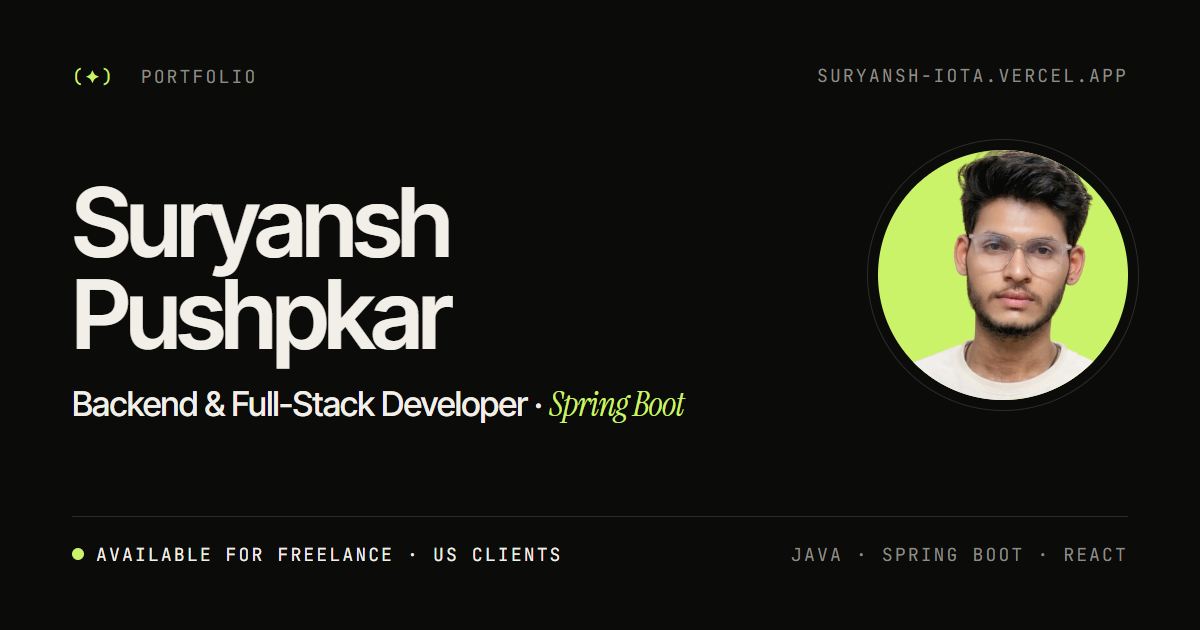
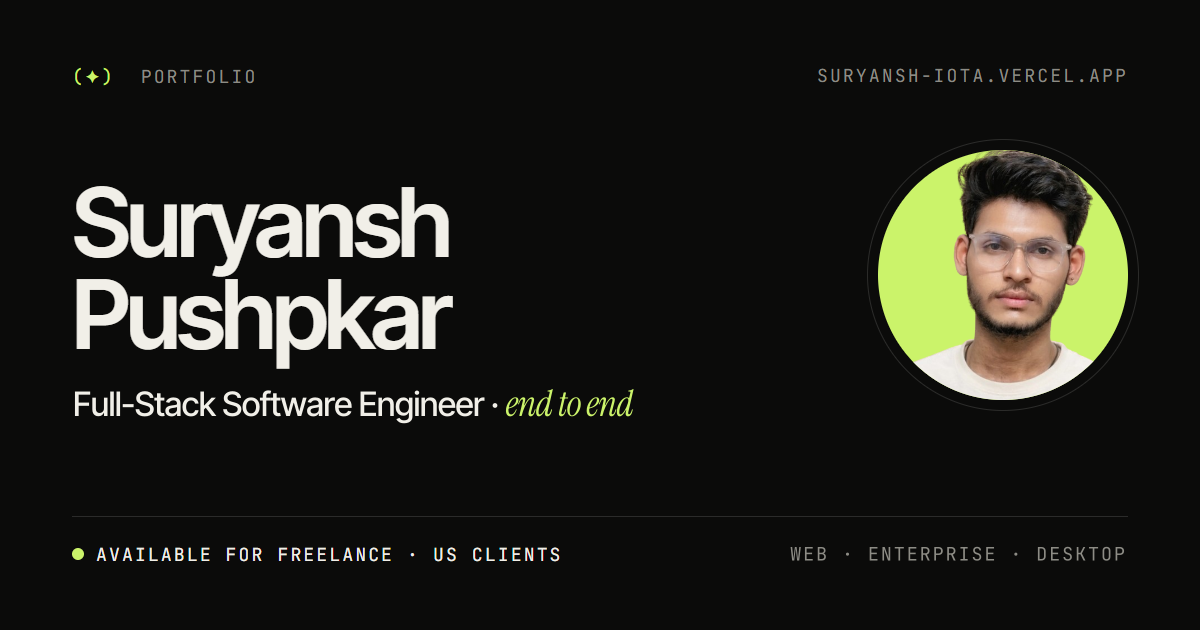
Reposition as a full-stack software engineer in plain language
Retitle to "Full-Stack Software Engineer" (headline: "Software engineer")
and rewrite the hero, About, Services, Process and project descriptions
for non-technical visitors, without framework names. Tool names stay in
the Skills strip, project tags and structured data. Update the page
title, meta descriptions and link-preview image to match.

Changed region(s): [[0.0617, 0.6032, 0.5858, 0.6635], [0.6475, 0.8444, 0.9558, 0.9048]]

diff --git a/Profolio/index.html b/Profolio/index.html
@@ -4,10 +4,10 @@
     <meta charset="UTF-8" />
     <meta name="viewport" content="width=device-width, initial-scale=1.0" />
 
-    <title>Suryansh Pushpkar | Backend &amp; Full-Stack Developer</title>
+    <title>Suryansh Pushpkar | Full-Stack Software Engineer</title>
     <meta
       name="description"
-      content="Suryansh Pushpkar, backend &amp; full-stack developer building scalable Java, Spring Boot, microservices and React systems for US clients and freelance work."
+      content="Suryansh Pushpkar, full-stack software engineer. I build websites, web apps, business and desktop software, from idea to launch, for US clients and freelance projects."
     />
     <meta name="author" content="Suryansh Pushpkar" />
     <meta name="robots" content="index, follow, max-image-preview:large" />
@@ -22,22 +22,22 @@
     <meta property="og:site_name" content="Suryansh Pushpkar" />
     <meta property="og:locale" content="en_US" />
     <meta property="og:url" content="https://suryansh-iota.vercel.app/" />
-    <meta property="og:title" content="Suryansh Pushpkar | Backend &amp; Full-Stack Developer" />
+    <meta property="og:title" content="Suryansh Pushpkar | Full-Stack Software Engineer" />
     <meta
       property="og:description"
-      content="Backend-heavy products, full-stack applications and scalable systems built with Java, Spring Boot and React."
+      content="Websites, web apps, business and desktop software, built end to end: fast, secure and ready to grow."
     />
     <meta property="og:image" content="https://suryansh-iota.vercel.app/og-image.png" />
     <meta property="og:image:width" content="1200" />
     <meta property="og:image:height" content="630" />
-    <meta property="og:image:alt" content="Suryansh Pushpkar, Backend &amp; Full-Stack Developer" />
+    <meta property="og:image:alt" content="Suryansh Pushpkar, Full-Stack Software Engineer" />
     <meta property="profile:first_name" content="Suryansh" />
     <meta property="profile:last_name" content="Pushpkar" />
     <meta name="twitter:card" content="summary_large_image" />
-    <meta name="twitter:title" content="Suryansh Pushpkar | Backend &amp; Full-Stack Developer" />
+    <meta name="twitter:title" content="Suryansh Pushpkar | Full-Stack Software Engineer" />
     <meta
       name="twitter:description"
-      content="Backend-heavy products, full-stack applications and scalable systems built with Java, Spring Boot and React."
+      content="Websites, web apps, business and desktop software, built end to end: fast, secure and ready to grow."
     />
     <meta name="twitter:image" content="https://suryansh-iota.vercel.app/og-image.png" />
 
@@ -52,11 +52,15 @@
             "name": "Suryansh Pushpkar",
             "url": "https://suryansh-iota.vercel.app/",
             "image": "https://suryansh-iota.vercel.app/og-image.png",
-            "jobTitle": "Backend & Full-Stack Developer",
-            "description": "Backend and full-stack developer building scalable systems with Java, Spring Boot, microservices and React, including US defence, banking and ERDS (Enterprise Ready Deployment System) projects for US clients.",
+            "jobTitle": "Full-Stack Software Engineer",
+            "description": "Full-stack software engineer building websites, web apps, business and desktop software end to end, including US defence, banking and ERDS (Enterprise Ready Deployment System) projects for US clients.",
             "email": "mailto:suryanshpushpkar183@gmail.com",
             "sameAs": ["https://github.com/Suryansh2602", "https://linkedin.com/in/suryansh-pushpkar"],
             "knowsAbout": [
+              "Software Engineering",
+              "Web Development",
+              "Desktop Applications",
+              "System Integration",
               "Java",
               "Spring Boot",
               "Microservices",
@@ -110,10 +114,9 @@
   <body>
     <noscript>
       <main style="max-width: 40rem; margin: 4rem auto; padding: 0 1.5rem; font-family: system-ui, sans-serif; line-height: 1.6">
-        <h1>Suryansh Pushpkar — Backend &amp; Full-Stack Developer</h1>
+        <h1>Suryansh Pushpkar — Full-Stack Software Engineer</h1>
         <p>
-          I build backend-heavy products, full-stack applications and scalable systems with Java, Spring Boot,
-          microservices and React. I've worked with US clients on US defence and banking projects, and on ERDS
+          I turn ideas into working software: websites, web apps, business and desktop software, built end to end. I've worked with US clients on US defence and banking projects, and on ERDS
           (Enterprise Ready Deployment System), and I take on freelance builds.
         </p>
         <p>

diff --git a/Profolio/src/config/data.ts b/Profolio/src/config/data.ts
@@ -15,20 +15,20 @@ export interface Service {
 
 export const SERVICES: Service[] = [
   {
-    title: "Backend Architecture",
-    detail: "Spring Boot APIs, modular services, auth flows, database design, and scalable foundations.",
+    title: "Websites & Web Apps",
+    detail: "From business websites to customer portals and dashboards, built to be fast, secure and easy to use.",
   },
   {
-    title: "Full-Stack Products",
-    detail: "React frontends paired with clean backend systems so the product feels fast and reliable.",
+    title: "Business Software",
+    detail: "Custom tools that replace spreadsheets and manual work, built around how your team actually operates.",
   },
   {
-    title: "Freelance Delivery",
-    detail: "Solutions for clients from planning and development through to final handoff.",
+    title: "Integrations & Automation",
+    detail: "Connecting payments, email, CRMs and your other systems so data flows without copy-pasting.",
   },
   {
-    title: "Consulting & Debugging",
-    detail: "Architecture reviews, cleanup plans, performance fixes, and practical technical guidance.",
+    title: "Fixes & Consulting",
+    detail: "Slow, buggy or hard-to-change software? I find what's wrong, fix it, and explain it in plain words.",
   },
 ];
 
@@ -43,7 +43,7 @@ export const PROCESS: Service[] = [
   },
   {
     title: "Build",
-    detail: "Clean, tested code with JUnit and Mockito, with APIs documented in Swagger as they grow.",
+    detail: "Clean, tested code, with regular demos so you see progress every week, not just at the end.",
   },
   {
     title: "Ship",
@@ -58,35 +58,37 @@ export const SOCIAL_LINKS = {
 };
 
 export const SKILLS: string[] = [
-  "Java", "Spring Boot", "Microservices", "React", "Git", "Spring Security", "Thymeleaf", "MySQL", "Java Swing","Spring Data JPA",
-  "TypeScript", "PostgreSQL", "Tailwind CSS", "JWT/OAuth" , "RESTful APIs", "Testing Frameworks (JUnit, Mockito)", "Swagger", "POSTMAN",
+  // Interleaved so no single language dominates the strip
+  "React", "Java", "TypeScript", "Spring Boot", "RESTful APIs", "PostgreSQL", "Microservices", "Tailwind CSS",
+  "MySQL", "JWT/OAuth", "Spring Security", "Git", "Java Swing", "Swagger", "Spring Data JPA", "Thymeleaf",
+  "Testing (JUnit, Mockito)", "Postman",
 ];
 
 export const PROJECTS: Project[] = [
   {
     title: "UrbanEats",
-    type: "Microservices",
-    description: "A microservices-based food delivery application architecture designed around service boundaries, API communication, and scalable backend thinking.",
+    type: "Web platform",
+    description: "A food delivery platform built as separate parts for orders, restaurants and customers, so each can grow and be updated without taking the others down.",
     tags: ["Java", "Spring Boot", "Microservices", "Postman"],
     github: "https://github.com/Suryansh2602/JAVA-PROJECTS/tree/main/1.%20URBANEATS",
   },
   {
     title: "FriendBook",
-    type: "Full-stack",
-    description: "A social media platform featuring authentication, Spring Security, and full-stack interaction flows.",
+    type: "Web app",
+    description: "A social media web app with secure sign-up and log-in, built end to end, from the screens people use to the database behind them.",
     tags: ["Spring Boot", "Spring Security", "React"],
     github: "https://github.com/Suryansh2602/FriendBook-Web-Application",
   },
   {
     title: "Library Management System",
-    type: "Backend",
-    description: "A servlet-based library application for managing books, records, user activity, and core circulation flows in a structured backend-driven setup.",
+    type: "Business software",
+    description: "Software that helps a library manage its books, members and borrowing in one organised place, instead of paper registers.",
     tags: ["Java", "Servlet", "JSP", "MySQL"],
   },
   {
     title: "Banking Transaction Management System",
     type: "Desktop app",
-    description: "A Java Swing desktop application where each transaction is unique and secured, with records maintained across deposits, withdrawals, transfers, and other banking operations.",
+    description: "A desktop banking app that records deposits, withdrawals and transfers, with every transaction uniquely tracked and secured.",
     tags: ["Java", "Swing", "Desktop Application", "Transaction Security"],
     github: "https://github.com/Suryansh2602/PROJECTS-/tree/main/Banking%20Management%20System",
   },

diff --git a/Profolio/src/sections/Hero.tsx b/Profolio/src/sections/Hero.tsx
@@ -35,9 +35,9 @@ export const Hero = ({ ready }: { ready: boolean }) => {
       <motion.div style={{ y, opacity }} className="container-x">
         <motion.div {...fadeIn(0.5)} className="mb-8 grid grid-cols-2 gap-4 md:mb-10 md:grid-cols-4">
           <p className="label">
-            Backend &amp;
+            Full-Stack
             <br />
-            Full-Stack Developer
+            Software Engineer
           </p>
           <p className="label">
             Delivering for
@@ -45,9 +45,9 @@ export const Hero = ({ ready }: { ready: boolean }) => {
             US clients
           </p>
           <p className="label hidden md:block">
-            Java · Spring Boot
+            Websites · Web apps
             <br />
-            Microservices · React
+            Business software
           </p>
           <p className="label hidden text-right md:block">
             Portfolio
@@ -57,9 +57,9 @@ export const Hero = ({ ready }: { ready: boolean }) => {
 
         <h1 className="display-xl">
           {/* Name for search engines and screen readers; the visible headline stays as designed */}
-          <span className="sr-only">Suryansh Pushpkar, Backend &amp; Full-Stack Developer: </span>
+          <span className="sr-only">Suryansh Pushpkar, Full-Stack Software Engineer: </span>
           <MaskLine play={ready} delay={0.1}>
-            Backend engineer
+            Software engineer
           </MaskLine>
           <MaskLine play={ready} delay={0.2}>
             building <ApiTicker play={ready} />
@@ -103,8 +103,9 @@ export const Hero = ({ ready }: { ready: boolean }) => {
           </div>
 
           <p className="max-w-md leading-relaxed text-muted md:col-span-5">
-            I build backend-heavy products, full-stack applications and scalable systems with Java, Spring Boot and
-            React, for teams who want clean engineering and confident delivery.
+            I turn ideas into working software, from the screens your customers use to everything running behind
+            them. You get a product that is fast, secure and ready to grow, delivered on time and explained in plain
+            language.
           </p>
 
           <div className="flex flex-wrap gap-3 md:col-span-4 md:justify-end">

diff --git a/Profolio/src/sections/About.tsx b/Profolio/src/sections/About.tsx
@@ -23,12 +23,12 @@ const slides = [
 const facts = [
   { label: 'Clients', value: 'US clients & US-based projects' },
   { label: 'Domains', value: 'US defence, banking, ERDS (Enterprise Ready Deployment System)' },
-  { label: 'Focus', value: 'Backend architecture & microservices' },
-  { label: 'Core stack', value: 'Java, Spring Boot, React' },
+  { label: 'What I build', value: 'Websites, web apps, business & desktop software' },
+  { label: 'How I work', value: 'Idea to launch, with clear updates along the way' },
 ];
 
 const INTRO =
-  "I'm Suryansh, a backend and full-stack developer. I build the parts of a product people don't see: APIs, services, auth flows and data models, so the parts they do see feel fast and dependable. I've worked with US clients on US defence and banking projects, and on ERDS (Enterprise Ready Deployment System). Alongside that, I take on freelance builds for teams who value clean engineering and clear communication.";
+  "I'm Suryansh, a full-stack software engineer. I build complete products: the screens people use, and the systems behind them that keep data safe, connect your tools and handle growth. I've worked with US clients on US defence and banking projects, and on ERDS (Enterprise Ready Deployment System). Alongside that, I take on freelance builds for businesses that want software done properly, without the jargon.";
 
 export const About = () => {
   const [active, setActive] = useState(0);

diff --git a/Profolio/src/sections/Services.tsx b/Profolio/src/sections/Services.tsx
@@ -18,7 +18,7 @@ export const Services = () => {
           </h2>
           <FadeIn className="md:col-span-4 md:self-end">
             <p className="max-w-sm leading-relaxed text-muted">
-              Practical engineering support, product-focused implementation, and delivery you can ship with.
+              Starting from scratch or fixing what you already have, I'll get it built, working and ready for your customers.
             </p>
           </FadeIn>
         </div>

diff --git a/Profolio/src/components/Preloader.tsx b/Profolio/src/components/Preloader.tsx
@@ -48,7 +48,7 @@ export const Preloader = ({ onDone }: { onDone: () => void }) => {
       </div>
 
       <div className="container-x flex items-end justify-between pb-6">
-        <span className="label">Backend &amp; Full-Stack Developer</span>
+        <span className="label">Full-Stack Software Engineer</span>
         <span className="display-xl tabular-nums">{String(count).padStart(3, '0')}</span>
       </div>
 
